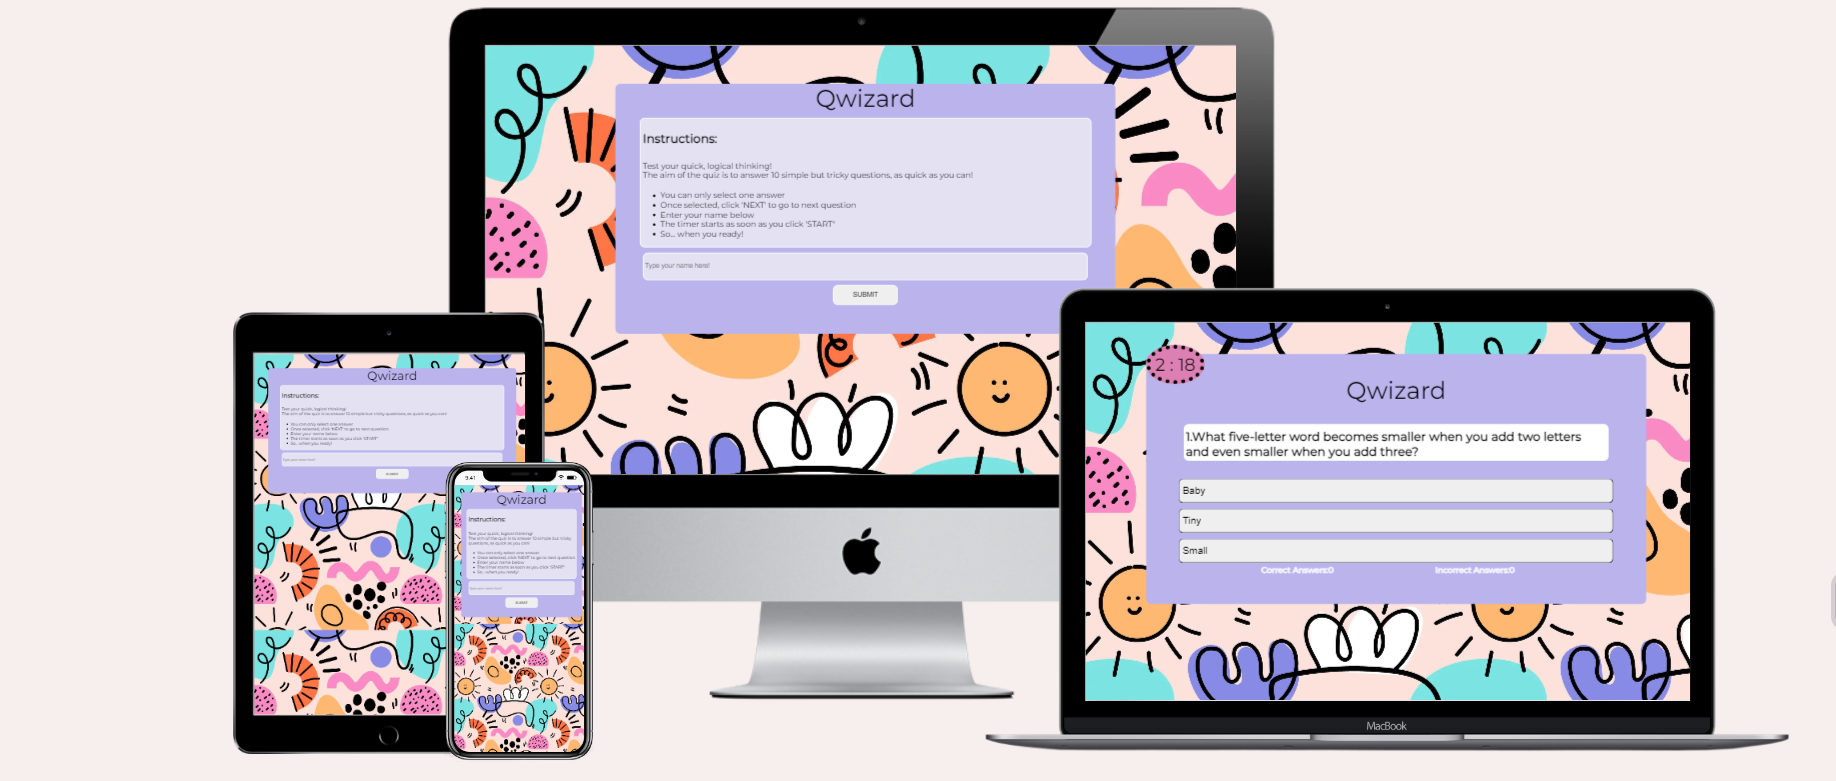
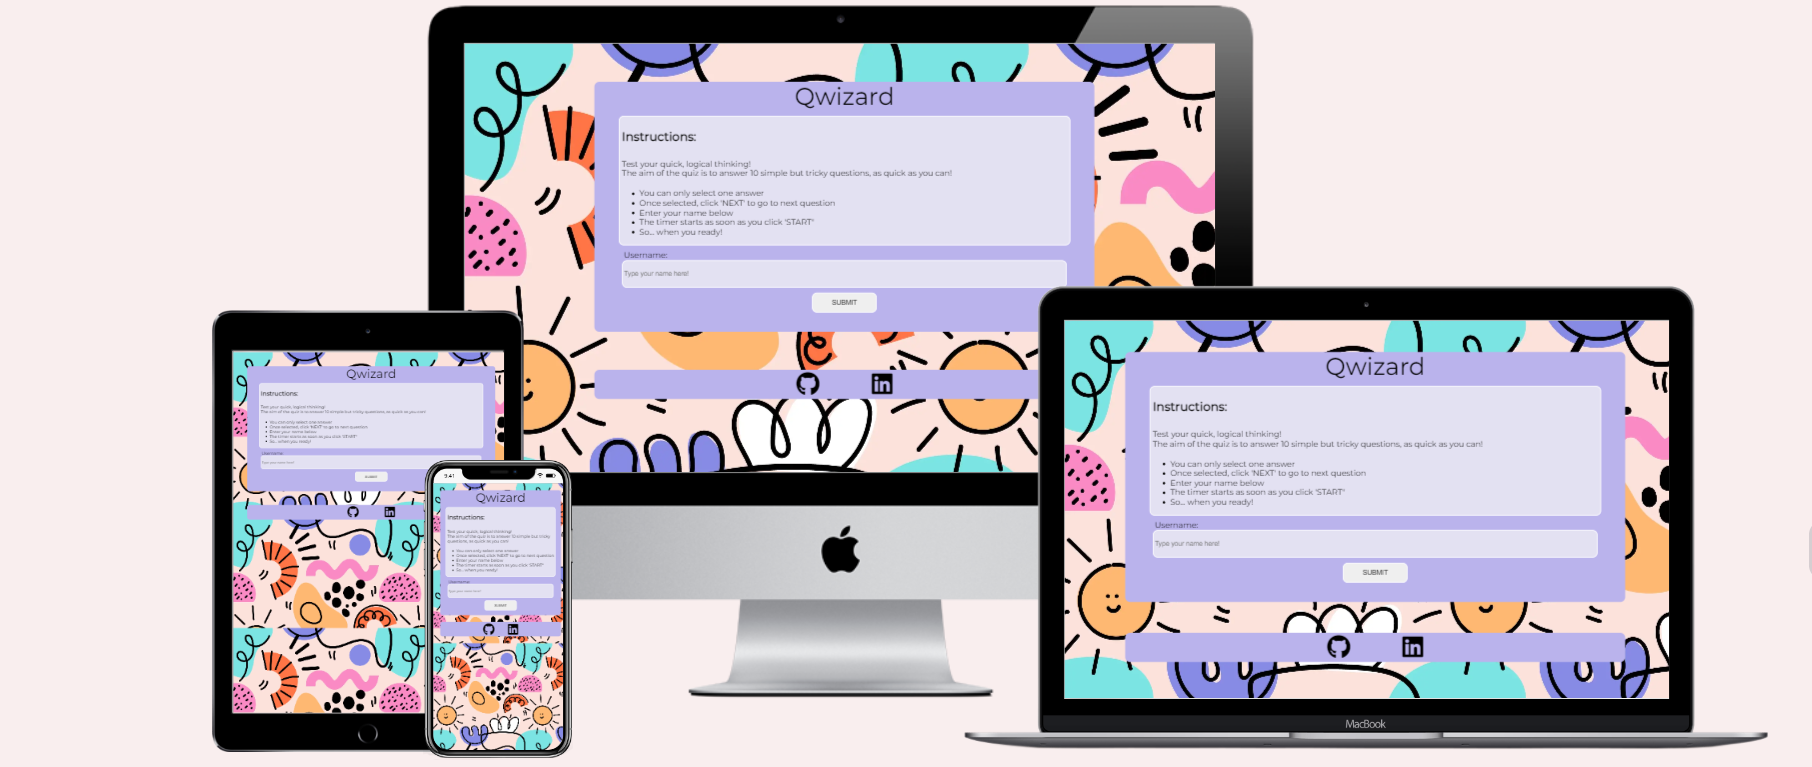
Add js validator section to readme, update mockup screenshot, add functional testing

Changed region(s): [[0.0927, 0.0, 0.989, 0.9896], [0.989, 0.6897, 1.0, 0.8096]]

diff --git a/README.md b/README.md
@@ -6,8 +6,8 @@ Even though the quiz has some tricky questions, they are all simple and don't re
 
 ## FEATURES
 ### Main header
-* This is shown the same on every page for consistent design, it does change however to a personalised, welcome message as soon as user enters a username. Once user clicks 'start' located under the welcome message, the user is taken to a quiz and the header from that moment includes a link which user can use if they want to be taken back to home page/ instructions page.
-* When hovered over, the header will change the colour. Simple, not busy design, allows the user to easily navigate back to the beggining.
+* This is shown the same on every page for consistent design, once quiz starts,mthe header includes a link which user can use if they want to be taken back to home page/ instructions page.
+* When hovered over, the header will change the colour, so that the user is aware of the link. Simple, not busy design, allows the user to easily navigate back to the beggining.
 ![main_header](assets/docs/main_header.png)
 ### Home page
 * The home page includes two features below the header.
@@ -39,6 +39,10 @@ Even though the quiz has some tricky questions, they are all simple and don't re
 #### Incremented score count display
 * This feature is displayed below the next button. The aim of this is so that a user can keep track of the progress throughout the game.
 ![quiz_page_increment_score](assets/docs/quiz_page_increment_score.png)
+### Footer
+* Each page has a footer below the main game content, the footer displays icon links to Github and Linkedin accounts
+* As the website is educational, the aim of these is so that a user can see my Github work and the Linkedin account if they wish to know more about me
+![footer](assets/docs/footer.png)
 ### 404 ERROR PAGE NOT FOUND
 * This page will show for a user if wrong link for the page is entered. 
 * The benefit of the page is that customer get's clear message with a link to go back to home page so that they can start from begging. User won't have to use browsers back button.
@@ -50,6 +54,7 @@ Even though the quiz has some tricky questions, they are all simple and don't re
 
 ## DESIGN
 * small to large screen wireframe ( quiz will look the same across all screen sizes. There will be slight difference in displaying incremented score count but still can be found under the answers)
+* Please note the footer has been added to each page right below the largest div, footer includes two icon links (github and linkedin)
      * Home page
              ![home_page](assets/docs/home_page_wireframe.png)
      * this will be amended to welcome message with JS once user clicks 'submit' button
@@ -120,28 +125,52 @@ Manual testing performed, to ensure website performs well on different browsers 
 ![quiz_page_mobile](assets/docs/lighthouse_quiz_page_mobile.png)
 
 ### Functional Testing
-* Navigation link
-    * Link has been checked. Works as expected.
 
-|NAVIGATION LINK      | DESTINATION PAGE|
-|---------------------|-----------------|
-|Quiz page/ header    | index.html      |
-
-
-* Buttons
+* Buttons and anchor links
     * All checked and work as expected
 
-|Button/ anchor link (location)                        | DESTINATION PAGE                      | PAGE OPENS IN NEW TAB       |
-|------------------------------------------------------|---------------------------------------|-----------------------------|
-|'Submit'(home page/below username input)              | index.html/welcome msg                | no- as expected             |
-|'START'(home page/displayed after clicking submit)    | quiz.html/1st question displayed      | no- as expected             |
-|'Next' (displayed once answer is selected)            | quiz.html/next question selected      | no- as expected             |
-|'Try again'(quiz.html/displayed below final score)    | quiz.html/1st question displayed      | no- as expected             |
-|'leaderboard'(quiz.html/displayed below final score)  | quiz.html/leaderboard list displayed  | no- as expected             |
+|Button/ anchor link (location)                        | DESTINATION PAGE                                   | PAGE OPENS IN NEW TAB       |
+|------------------------------------------------------|----------------------------------------------------|-----------------------------|
+|'Submit'(home page/below username input)              | index.html/welcome msg                             | no- as expected             |
+|'START'(home page/displayed after clicking submit)    | quiz.html/1st question displayed                   | no- as expected             |
+|'Next' (displayed once answer is selected)            | quiz.html/next question selected                   | no- as expected             |
+|'Try again'(quiz.html/displayed below final score)    | quiz.html/1st question displayed                   | no- as expected             |
+|'leaderboard'(quiz.html/displayed below final score)  | quiz.html/leaderboard list displayed               | no- as expected             |
+|Quiz page link (within header)                        | index.html                                         | no- as expected             |
+|'Github' icon(footer)                                 | https://github.com/AsiaWi                          | yes- as expected            |
+|'Linkedin' icon(footer)                               | https://www.linkedin.com/in/joanna-witek-51017b263/| yes- as expected            |
 
 
-* Input username - testing
-    * Input (type=text)- set as "required", user has to input the name, if user doesn't do it and clicks 'submit', an alert to enter username will be displayed
+
+* Functionality testing
+
+|   function/location          |            action                              |   expected                                                   |   actual                    |
+|------------------------------|------------------------------------------------|--------------------------------------------------------------|-----------------------------|
+|username input/ index.html    |user enters their name and clicks submit        | welcome message displays and an option to click 'start'      | as expected                 |
+|                              |                                                |                                                              |                             |
+|                              |user doesn't enter their name and clicks submit | alert displayed indicating to enter username                 | as expected                 |
+|                              |                                                |                                                              |                             |
+|start button/index.html       |user clicks start                               | user taken to a quiz.html page, quiz starts, timer starts    | as expected                 |
+|                              |                                                |                                                              |                             |
+|                              |                                                |                                                              |                             |
+|answer buttons/quiz.html      |user selected correct answer                    | button highlighted turquoise colour, other answer buttons    |                             |
+|                              |                                                |disabled, next button displayed,correct score incremented by 1| as expected                 |
+|                              |user selected incorrect answer                  |button highlighted burnt orange colour, correct answer shown  |                             |  
+|                              |                                                |in turquoise, all answer buttons disabled, next button        |                             |
+|                              |                                                |displayed, incorrect score incremented by 1                   | as expected                 |
+|next button/quiz.html         |user clicks next button                         |next question displayed, question number incremented by one   | as expected                 |
+|                              |user clicks next after answering question 10    |total score displayed (username and scores shown),            |                             |
+|                              |                                                |leaderboard and try again buttons shown                       | as expected                 |
+|                              |                                                |                                                              |                             |
+|leaderboard button/quiz.html  |user clicks the button once                     |top 5 scores shown as leaderboard, try again option still     |                             |
+|                              |                                                |available for user if they want to play again                 | as expected                 |
+|                              |user clicks the button 2nd time                 |leaderboard collapses, only leaderboard button shown,         |                             |
+|                              |                                                |try again button shown below                                  | as expected                 |
+|                              |                                                |                                                              |                             |
+|try again button/quiz.html    |user clicks the button                          |quiz starts again, question no.1 displayed                    |                             |
+|                              |                                                |timer starts from 0                                           | as expected                 |
+
+
 
 ### Validator testing
 * HTML
@@ -152,7 +181,10 @@ No errors were found when passing through the official Jigsaw W3 Validator
 ![CSS-validator](assets/docs/css_validator.png)
 * JAVA SCRIPT
 No errors were found when passing through the jshint validator. (https://jshint.com/)
-### Unfixed bugs
+  * script.js validated:
+![JS-validator](assets/docs/jshint_script_js.png)
+  * username.js validated:
+![JS-validator](assets/docs/jshint_username_js.png)
 
 
 ## Version Control
